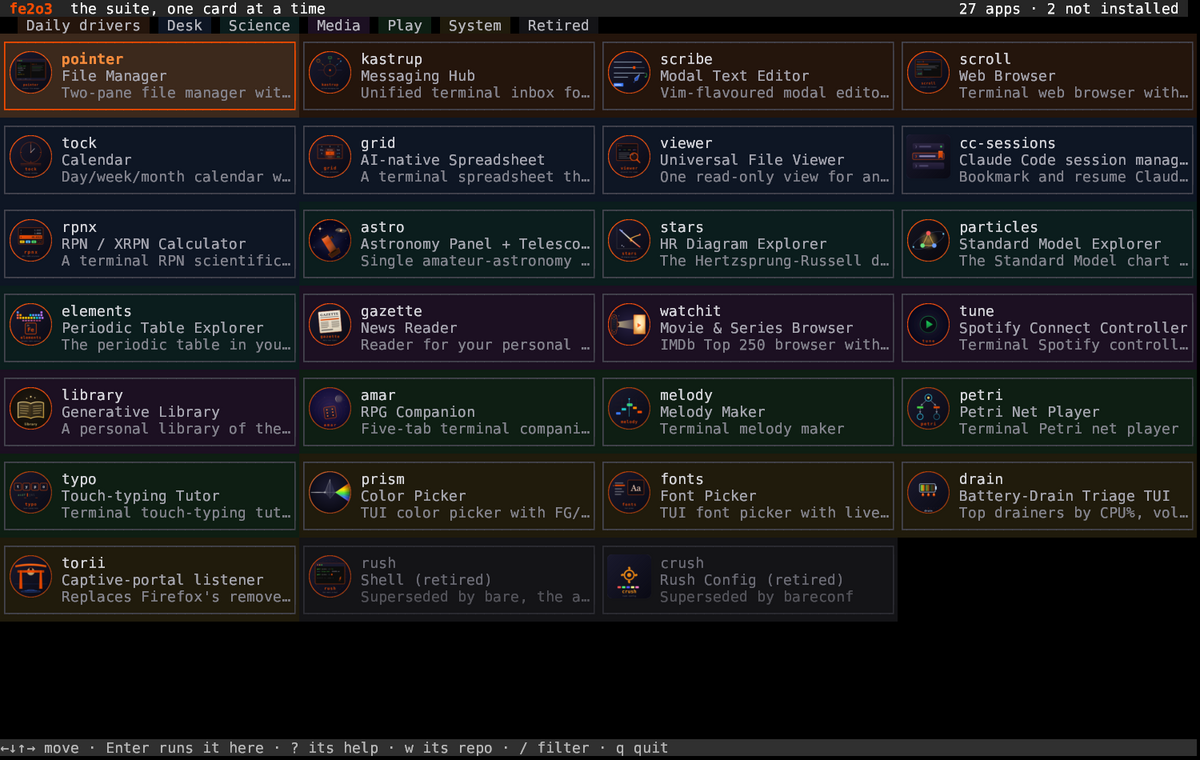
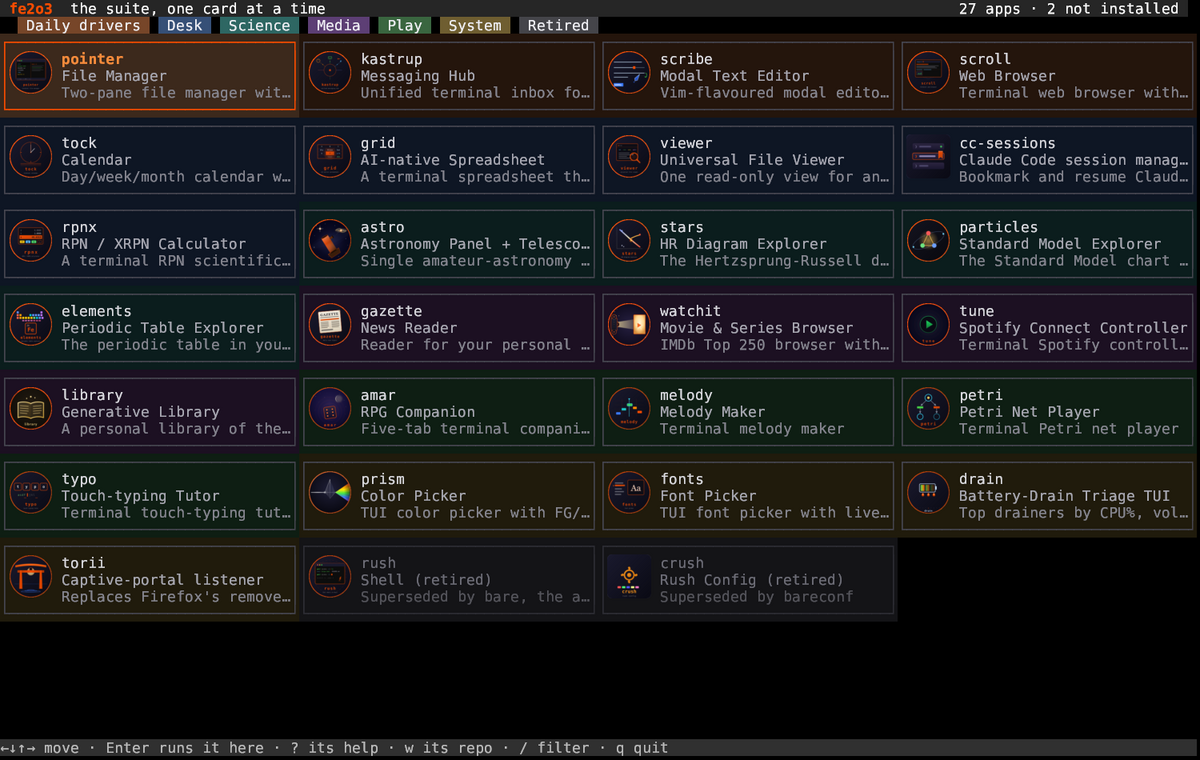
Legend chips: lift the hue so they can be read (v0.1.5)
A card tint is near-black on purpose — right behind a whole card, far too
dark for a twelve-character chip. Each chip now sits a third of the way
toward its light end, with near-white text: same hue as its band, but
actually visible.

Changed region(s): [[0.0, 0.0, 0.4933, 0.0605]]

diff --git a/src/main.rs b/src/main.rs
@@ -31,6 +31,15 @@ fn group_rgb(group: &str) -> ((u8, u8, u8), (u8, u8, u8)) {
     }
 }
 
+/// The legend chip: the same hue lifted a third of the way toward its
+/// light end. A card tint is near-black on purpose — right behind a whole
+/// card, unreadable as a twelve-character chip.
+fn chip_rgb(group: &str) -> (u8, u8, u8) {
+    let (dark, light) = group_rgb(group);
+    let mix = |d: u8, l: u8| (d as u16 + (l as u16 - d as u16) * 38 / 100) as u8;
+    (mix(dark.0, light.0), mix(dark.1, light.1), mix(dark.2, light.2))
+}
+
 /// The selected card lifts off its group tint.
 fn lift(c: (u8, u8, u8)) -> (u8, u8, u8) {
     (
@@ -350,9 +359,12 @@ fn draw_legend(ui: &Ui, cols: u16) {
     let parts: Vec<String> = seen
         .iter()
         .map(|g| {
-            let (tint, _) = group_rgb(g);
-            let fg = if present.contains(g) { (185, 185, 192) } else { (95, 95, 102) };
-            style::rgb(&format!(" {g} "), Some(fg), Some(tint), "")
+            let (fg, bg) = if present.contains(g) {
+                ((240, 240, 245), chip_rgb(g))
+            } else {
+                ((120, 120, 128), group_rgb(g).0)
+            };
+            style::rgb(&format!(" {g} "), Some(fg), Some(bg), "")
         })
         .collect();
     let line = format!("  {}", parts.join(" "));
